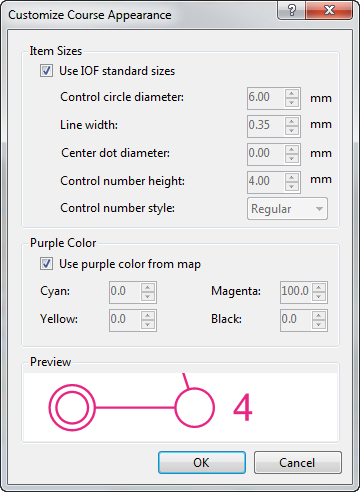
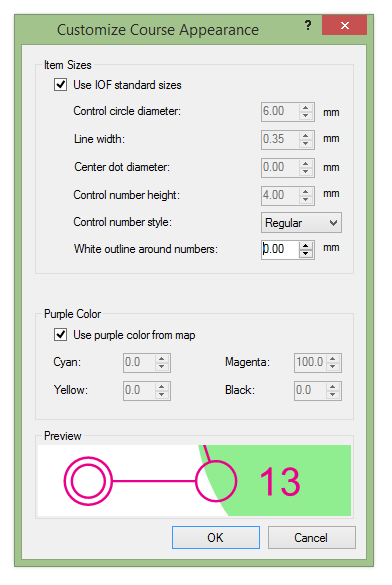
Documentation for white outline around numbers.

diff --git a/doc/userdocs/WebSite/default.htm b/doc/userdocs/WebSite/default.htm
@@ -58,7 +58,7 @@ function FP_getObjectByID(id,o) {//v1.0
 </ul>
 <div id="maindiv">
 
-<p><strong>New!</strong> <a href="news.htm">Version 2.2.3 released.</a></p>
+<p><strong>New!</strong> <a href="news.htm">Version 2.2.4 released.</a></p>
 <p>Purple Pen is course setting software for orienteering. Purple Pen makes it easy 
 to design orienteering courses and their associated control descriptions.</p>
 <p>Design your courses visually — directly on any OCAD 
@@ -85,7 +85,7 @@ control. Purple Pen automatically does all the busywork:</p>
 <p>Best of all, Purple Pen is completely free software.</p>
 <p>Purple Pen is available in English, French, German, Swedish, Spanish, Norwegian (Bokmal and Nynorsk), 
     Finnish, Bulgarian, Romanian, and Estonian.  Documentation in English and Norwegian only.</p>
-	<a href="downloads/purplepen-223.exe">
+	<a href="downloads/purplepen-224.exe">
 <img style="border: 0" id="img1" src="button29.jpg" height="41" width="205" alt="Download Now!" onmouseover="FP_swapImg(0,0,/*id*/'img1',/*url*/'button2A.jpg')" onmouseout="FP_swapImg(0,0,/*id*/'img1',/*url*/'button29.jpg')" onmousedown="FP_swapImg(0,0,/*id*/'img1',/*url*/'button2B.jpg')" onmouseup="FP_swapImg(0,0,/*id*/'img1',/*url*/'button2A.jpg')" /><!-- MSComment="ibutton" fp-style="fp-btn: Metal Capsule 3; fp-font-size: 14; fp-preload: 0" fp-title="Download Now!" --></a></div>
 <!-- #EndEditable -->
 <br/>

diff --git a/doc/userdocs/Help/EventCustomizeCourseAppearance.htm b/doc/userdocs/Help/EventCustomizeCourseAppearance.htm
@@ -15,7 +15,7 @@
 drawn course. Changes affect the live display, printed courses, and courses 
 exported to OCAD.</p>
 <p>
-<img alt="Customize Course Appearance Dialog" src="CustomizeCourseAppearance.png" width="360" height="451"></p>
+<img alt="Customize Course Appearance Dialog" src="CustomizeCourseAppearance.png"></p>
 <p>&nbsp;</p>
 <p>The following items allow you to customize the appearance of the course. The 
 &quot;Preview&quot; section shows a preview of what those changes will look like.</p>
@@ -33,6 +33,8 @@ circles, start triangle, and the finish circle. The IOF standard is 0.35 mm.</p>
 <p><strong>Control number height</strong>: Sets the height of digits used for 
 controls numbers. The IOF standard is 4.0 mm.</p>
     <p><strong>Control number style</strong>: Determines if the control number is regular or boldface. The IOF standard is regular.</p>
+    <p><strong>White outline around numbers</strong>: If greater than zero, a white outline of the given width is placed around numbers to make them more visible against colored or complex backgrounds.
+    A value between 0.1mm and 0.4mm usually works best.</p>
 <p><strong>Use purple color from map</strong>: If this is checked, the color 
 used for the course will be the same shade of Purple as used in the underlying 
 OCAD map. If an image is used instead of an OCAD map, or the Purple color cannot 

diff --git a/doc/userdocs/WebSite/download.htm b/doc/userdocs/WebSite/download.htm
@@ -76,7 +76,7 @@ function FP_getObjectByID(id,o) {//v1.0
 </ul>
 <div id="maindiv">
 <p>
-<a href="downloads/purplepen-223.exe">
+<a href="downloads/purplepen-224.exe">
 <img style="border: 0" id="img1" src="button22.jpg" height="41" width="205" alt="Download Now!" onmouseover="FP_swapImg(0,0,/*id*/'img1',/*url*/'button23.jpg')" onmouseout="FP_swapImg(0,0,/*id*/'img1',/*url*/'button22.jpg')" onmousedown="FP_swapImg(0,0,/*id*/'img1',/*url*/'button24.jpg')" onmouseup="FP_swapImg(0,0,/*id*/'img1',/*url*/'button23.jpg')" /><!-- MSComment="ibutton" fp-style="fp-btn: Metal Capsule 3; fp-font-size: 14; fp-preload: 0" fp-title="Download Now!" --></a><br />
 </p>
 <p>Click the button above to download the latest released version of Purple Pen. 
@@ -100,8 +100,12 @@ version other than the most current, you can download it from here.</p>
 		<td class="style3">File Name</td>
 	</tr>
     <tr>
+        <td class="style2">Purple Pen 2.2.4</td>
+        <td class="style2"><a href="downloads/purplepen-224.exe">purplepen-224.exe</a></td>
+    </tr>
+    <tr>
         <td class="style2">Purple Pen 2.2.3</td>
-        <td class="style2"><a href="downloads/purplepen-223.exe">purplepen-222.exe</a></td>
+        <td class="style2"><a href="downloads/purplepen-223.exe">purplepen-223.exe</a></td>
     </tr>
     <tr>
         <td class="style2">Purple Pen 2.2.2</td>

diff --git a/doc/userdocs/WebSite/news.htm b/doc/userdocs/WebSite/news.htm
@@ -47,6 +47,15 @@
 </ul>
 <div id="maindiv">
 
+<h2>Jan 14, 2014</h2>
+    <p class="style1">
+        Version 2.2.4 is released.  This adds the "white outline around numbers" option to Customize Course Appearance.
+        <a href="change_summary.htm">More details here</a>.
+    </p><h2>Nov 23, 2013</h2>
+    <p class="style1">
+        Version 2.2.2 is released. This fixes problems on monitors with high DPI settings.
+        <a href="change_summary.htm">More details here</a>.
+    </p>
 <h2>Dec 13, 2013</h2>
     <p class="style1">
         Version 2.2.3 is released. This fixes several bugs.

diff --git a/doc/userdocs/WebSite/change_summary.htm b/doc/userdocs/WebSite/change_summary.htm
@@ -16,6 +16,16 @@
 
 <h1>Purple Pen Change Summary</h1>
 
+<h2>Changes in 2.2.4</h2>
+<h3>New features</h3>
+<ul>
+    <li>
+        <p>
+            Added the "white outline around numbers" options in Event/Customize Course Appearance.
+        </p>
+    </li>
+</ul>
+
 <h2>Changes in 2.2.3</h2>
 <h3>Bug fixes</h3>
 <ul>
